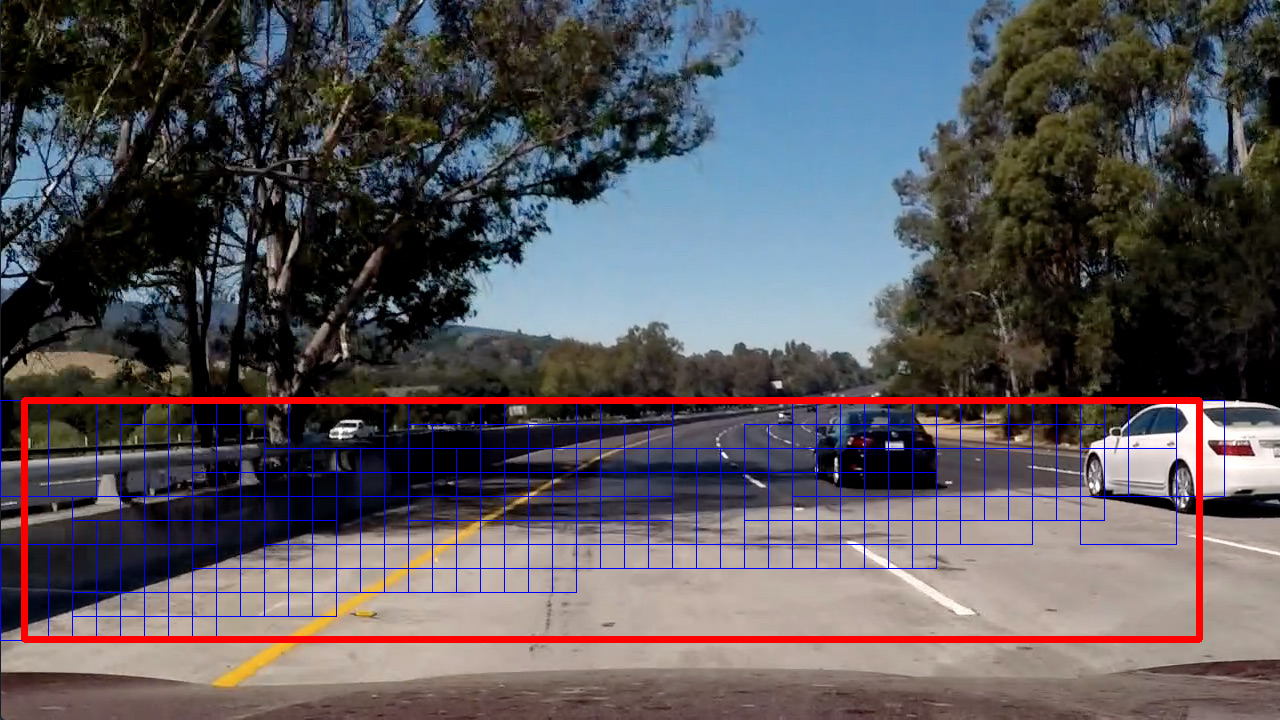
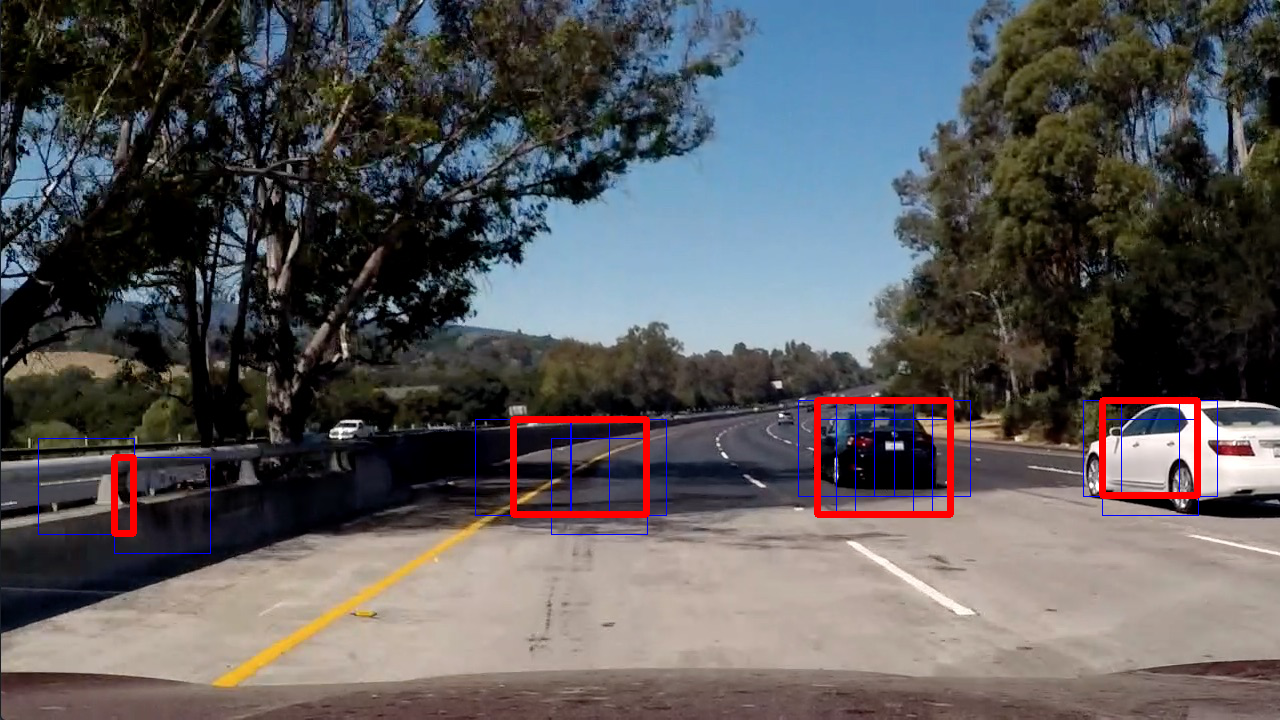
switched back to old HOG without subsampling, better; added some heatmap output images

Changed region(s): [[0.0, 0.55, 0.9375, 0.9167], [0.9062, 0.5806, 0.9375, 0.6417]]

diff --git a/Term1/Project5_Vehicle_Detection_and_Tracking_Project/vedet_main.py b/Term1/Project5_Vehicle_Detection_and_Tracking_Project/vedet_main.py
@@ -11,7 +11,7 @@ from search_classify import search_windows
 from heatmap import add_heat
 from heatmap import apply_threshold
 from heatmap import draw_labeled_bboxes
-#from hog_subsample import find_cars
+from hog_subsample import find_cars
 from hog_subsample import find_cars2
 from scipy.ndimage.measurements import label
 
@@ -266,22 +266,27 @@ if doitonthevideo == False:
         # data from .png images (scaled 0 to 1 by mpimg) and the
         # image you are searching is a .jpg (scaled 0 to 255)
         image = image.astype(np.float32)/255
-        # windows = slide_window(image, x_start_stop=[None, None], y_start_stop=y_start_stop,
-        #                        xy_window=(96, 96), xy_overlap=(0.8, 0.8))
-        # hot_windows = search_windows(image, windows, svc, X_scaler, color_space=color_space,
-        #                              spatial_size=spatial_size, hist_bins=hist_bins,
-        #                              orient=orient, pix_per_cell=pix_per_cell,
-        #                              cell_per_block=cell_per_block,
-        #                              hog_channel=hog_channel, spatial_feat=spatial_feat,
-        #                              hist_feat=hist_feat, hog_feat=hog_feat)
+        windows = slide_window(image, x_start_stop=[None, None], y_start_stop=y_start_stop,
+                               xy_window=(96, 96), xy_overlap=(0.8, 0.8))
+        hot_windows = search_windows(image, windows, svc, X_scaler, color_space=color_space,
+                                     spatial_size=spatial_size, hist_bins=hist_bins,
+                                     orient=orient, pix_per_cell=pix_per_cell,
+                                     cell_per_block=cell_per_block,
+                                     hog_channel=hog_channel, spatial_feat=spatial_feat,
+                                     hist_feat=hist_feat, hog_feat=hog_feat)
 
-        #ystart = y_start_stop[0]
-        ystart = 400
-        #ystop = y_start_stop[1]
-        ystop = 656
-        scale = 1.5
-
-        hot_windows = find_cars2(image, ystart, ystop, scale, svc, X_scaler, orient, pix_per_cell, cell_per_block, spatial_size, hist_bins)
+        # #ystart = y_start_stop[0]
+        # ystart = 400
+        # #ystop = y_start_stop[1]
+        # ystop = 656
+        # scale = 1.5
+        # hot_windows = find_cars(image, ystart, ystop, scale, svc, X_scaler, orient, pix_per_cell, cell_per_block, spatial_size, hist_bins)
+        # scale = 1.1
+        # hot_windows+= find_cars(image, ystart, ystop, scale, svc, X_scaler, orient, pix_per_cell, cell_per_block, spatial_size, hist_bins)
+        # scale = 1.9
+        # hot_windows+= find_cars(image, ystart, ystop, scale, svc, X_scaler, orient, pix_per_cell, cell_per_block, spatial_size, hist_bins)
+        # scale = 0.4
+        # hot_windows+= find_cars(image, ystart, ystop, scale, svc, X_scaler, orient, pix_per_cell, cell_per_block, spatial_size, hist_bins)
 
         window_img = draw_boxes(draw_image, hot_windows, color=(0, 0, 255), thick=1)
         heat = np.zeros_like(dst[:, :, 0]).astype(np.float)
@@ -292,6 +297,9 @@ if doitonthevideo == False:
         heatmap = np.clip(heat, 0, 255)
         # Find final boxes from heatmap using label function
         labels = label(heatmap)
+        print(labels[1], 'cars found')
+        mpimg.imsave(outimgpath + "heatmap_" + os.path.splitext(os.path.basename(filename))[0] + ".png", labels[0])  # jpg write not possible, use png
+
         draw_img = draw_labeled_bboxes(window_img, labels)
         mpimg.imsave(outimgpath + "candidate_" + os.path.splitext(os.path.basename(filename))[0] + ".png", draw_img)  # jpg write not possible, use png
 #        mpimg.imsave('candidates.png', window_img)
